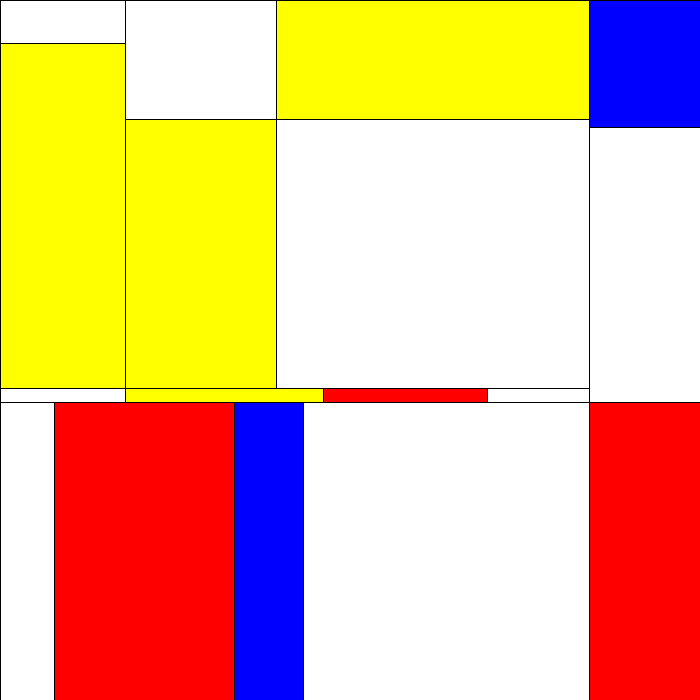
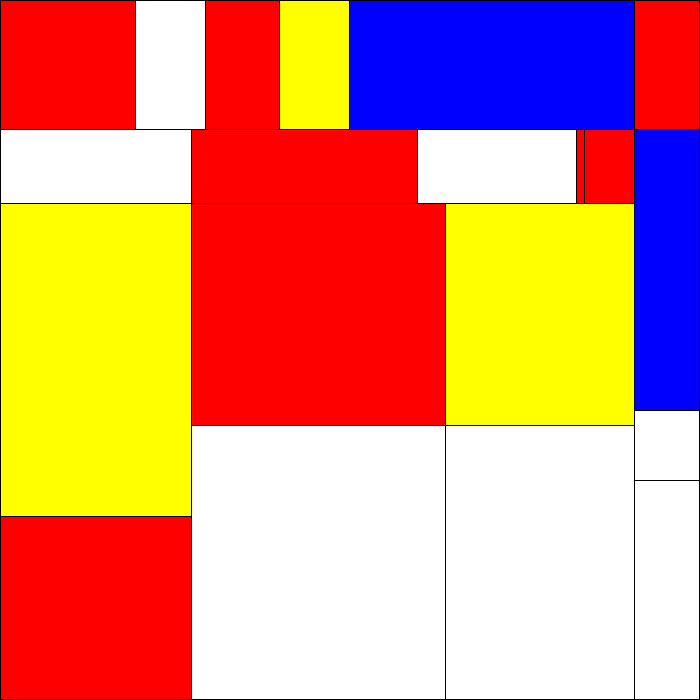
Commit: revised algorithm

diff --git a/src/MondrianArt.java b/src/MondrianArt.java
@@ -1,10 +1,15 @@
+// Aniss Fadel
+// CISC 4900
+// Task: to write a program that uses recursion to generate pseudo-random art in a Mondrian style.
+// MondrianArt.class
+
 import java.awt.*;
 import java.awt.image.BufferedImage;
 import java.io.File;
 import javax.imageio.ImageIO;
 import java.io.IOException;
 import java.util.Random;
-//change split to splitRegion
+
 public class MondrianArt {
     private int canvasHeight;
     private int canvasWidth;
@@ -12,68 +17,80 @@ public class MondrianArt {
     private Graphics2D g2d;
     private File file;
     Random random;
-    MondrianArt(int width, int height){
+    MondrianArt(int width, int height, String name){
+
         this.canvasWidth = width;
         this.canvasHeight = height;
         bufferedImage = new BufferedImage(width, height, BufferedImage.TYPE_INT_RGB);
         g2d = bufferedImage.createGraphics();
         random = new Random();
 
-        //sets the color of the whole canvas to white
-        g2d.setColor(Color.white);
-        g2d.fillRect(0, 0,canvasWidth, canvasHeight);
 
-        //set upper boundary and left boundary black
-        g2d.setColor(Color.black);
-        g2d.drawLine(0, 0, width,0);
-        g2d.drawLine(0, 1, 0,height);
-
-        split(0, 0, canvasWidth, canvasHeight);
-        printCanvas("canvasArt.png");
+        splitRegion(0, 0, canvasWidth, canvasHeight);
+        printCanvas(name);
         g2d.dispose();
 
     }
-    private void split(int regionX, int regionY, int regionWidth, int regionHeight){
+    // Generates psuedo-random art in a Mondrian style.
+    // Splits region depending on regionWidth && regionHeight
+    // recursively calls the splitted regions
+    // eventually colors the regions (white, blue, red, yellow)
+    private void splitRegion(int regionX, int regionY, int regionWidth, int regionHeight){
         if(regionWidth > canvasWidth/2 && regionHeight > canvasHeight/2){
 
-//            // draws black horizontal line on region
-//            int ranY = random.nextInt(regionHeight-1)+regionY+1;   // ranY: [1, regionHeight-1]
-//            g2d.drawLine(regionX, ranY, regionX+regionWidth-1, ranY);
-//
-//            // draws black vertical line on region
-//            int ranX = random.nextInt(regionWidth-1)+regionX+1;  // ranX: [1, regionWidth-1]
-//            g2d.drawLine(ranX, regionY, ranX, regionY+regionHeight-1);
             int ranY = drawHorizontalLine(regionX, regionY, regionWidth, regionHeight);
             int ranX = drawVerticalLine(regionX, regionY, regionWidth, regionHeight);
 
             //up-left region
-            split(regionX, regionY, ranX-regionX, ranY-regionY);
+            splitRegion(regionX, regionY, ranX-regionX, ranY-regionY);
             //up-right region
-            split(ranX, regionY,regionX+regionWidth-ranX, ranY-regionY);
+            splitRegion(ranX, regionY,regionX+regionWidth-ranX, ranY-regionY);
             //down-left region
-            split(regionX, ranY, ranX-regionX, regionY+regionHeight-ranY);
+            splitRegion(regionX, ranY, ranX-regionX, regionY+regionHeight-ranY);
             //down-right region
-            split(ranX, ranY, regionX+regionWidth-ranX, regionY+regionHeight-ranY);
+            splitRegion(ranX, ranY, regionX+regionWidth-ranX, regionY+regionHeight-ranY);
 
         }
         else if(regionWidth>canvasWidth/2){
-//            // draws black vertical line on region at possible random location
-//            int ranX = random.nextInt(regionHeight-1)+1;  // ranX: [1, regionHeight-1]
-//            g2d.drawLine(ranX, regionY, ranX, regionHeight);
+
             int ranX = drawVerticalLine(regionX, regionY, regionWidth, regionHeight);
 
-            split(regionX, regionY, ranX-regionX, regionHeight);
-            split(ranX, regionY, regionX+regionWidth-ranX,regionHeight);
+            splitRegion(regionX, regionY, ranX-regionX, regionHeight);
+            splitRegion(ranX, regionY, regionX+regionWidth-ranX,regionHeight);
 
         }
         else if(regionHeight > canvasHeight/2){
-//            // draws black horizontal line on region at possible random location
-//            int ranY = random.nextInt(regionWidth-1)+1;   // ranY: [1, regionWidth-1]
-//            g2d.drawLine(regionX, ranY, regionWidth-1, ranY);
             int ranY = drawHorizontalLine(regionX, regionY, regionWidth, regionHeight);
 
-            split(regionX, regionY, regionWidth, ranY-regionY);
-            split(regionX, ranY, regionWidth, regionY+regionHeight-ranY);
+            splitRegion(regionX, regionY, regionWidth, ranY-regionY);
+            splitRegion(regionX, ranY, regionWidth, regionY+regionHeight-ranY);
+        }
+        else if(regionHeight > 50 && regionWidth > 50){
+            int ranY = drawHorizontalLine(regionX, regionY, regionWidth, regionHeight);
+            int ranX = drawVerticalLine(regionX, regionY, regionWidth, regionHeight);
+
+            //up-left region
+            splitRegion(regionX, regionY, ranX-regionX, ranY-regionY);
+            //up-right region
+            splitRegion(ranX, regionY,regionX+regionWidth-ranX, ranY-regionY);
+            //down-left region
+            splitRegion(regionX, ranY, ranX-regionX, regionY+regionHeight-ranY);
+            //down-right region
+            splitRegion(ranX, ranY, regionX+regionWidth-ranX, regionY+regionHeight-ranY);
+        }
+        else if(regionWidth>50){
+
+            int ranX = drawVerticalLine(regionX, regionY, regionWidth, regionHeight);
+
+            splitRegion(regionX, regionY, ranX-regionX, regionHeight);
+            splitRegion(ranX, regionY, regionX+regionWidth-ranX,regionHeight);
+
+        }
+        else if(regionHeight > 50){
+            int ranY = drawHorizontalLine(regionX, regionY, regionWidth, regionHeight);
+
+            splitRegion(regionX, regionY, regionWidth, ranY-regionY);
+            splitRegion(regionX, ranY, regionWidth, regionY+regionHeight-ranY);
         }
         else{
             //chooses randomly white or colored (0 = white, 1 = colored)
@@ -96,8 +113,8 @@ public class MondrianArt {
         }
 
     }
-    // draws a vertical line on the region at a possible location
-    // returns the x-axis of the vertical line
+    // Draws a vertical line on the region at a possible location.
+    // Returns the x-axis of the vertical line
     public int drawVerticalLine(int x, int y, int width, int height){
         // draws black vertical line on region
         g2d.setColor(Color.black);
@@ -106,8 +123,8 @@ public class MondrianArt {
 
         return ranX;
     }
-    // draws a horizontal line on the region at a possible location
-    // returns the y-axis of the drawn horizontal line
+    // Draws a horizontal line on the region at a possible location.
+    // Returns the y-axis of the drawn horizontal line
     public int drawHorizontalLine(int x, int y, int width, int height){
         // draws black horizontal line on region
         g2d.setColor(Color.black);
@@ -117,7 +134,16 @@ public class MondrianArt {
         return ranY;
 
     }
+    // Prints the canvas into a png file
     public void printCanvas(String fileName){
+        //sets black boarder on canvas
+        g2d.setColor(Color.black);
+        g2d.drawLine(0, 0, canvasWidth,0);
+        g2d.drawLine(0, canvasHeight-1, canvasWidth,canvasHeight-1);
+        g2d.drawLine(0, 1, 0,canvasHeight);
+        g2d.drawLine(canvasWidth-1, 1, canvasWidth-1,canvasHeight);
+
+
         file = new File(fileName);
         try {
             ImageIO.write(bufferedImage, "png", file);
@@ -128,7 +154,10 @@ public class MondrianArt {
 
     }
     public static void main(String[] args) {
-        new MondrianArt(700,700);
+        new MondrianArt(700,700, "canvasArt1.png");
+        new MondrianArt(400,700, "canvasArt2.png");
+        new MondrianArt(900,700, "canvasArt3.png");
+
 
     }
 
